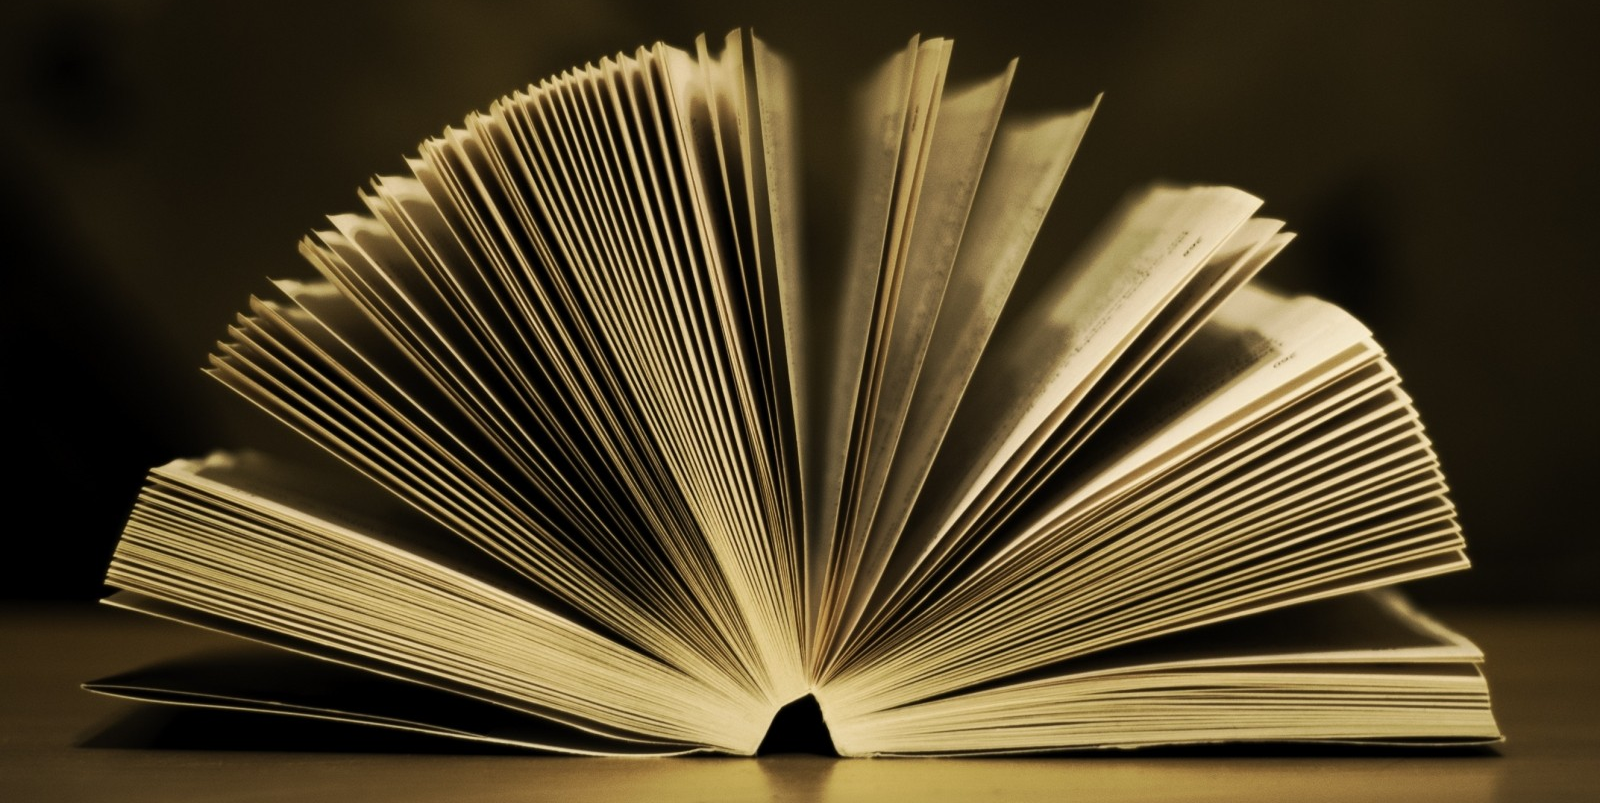
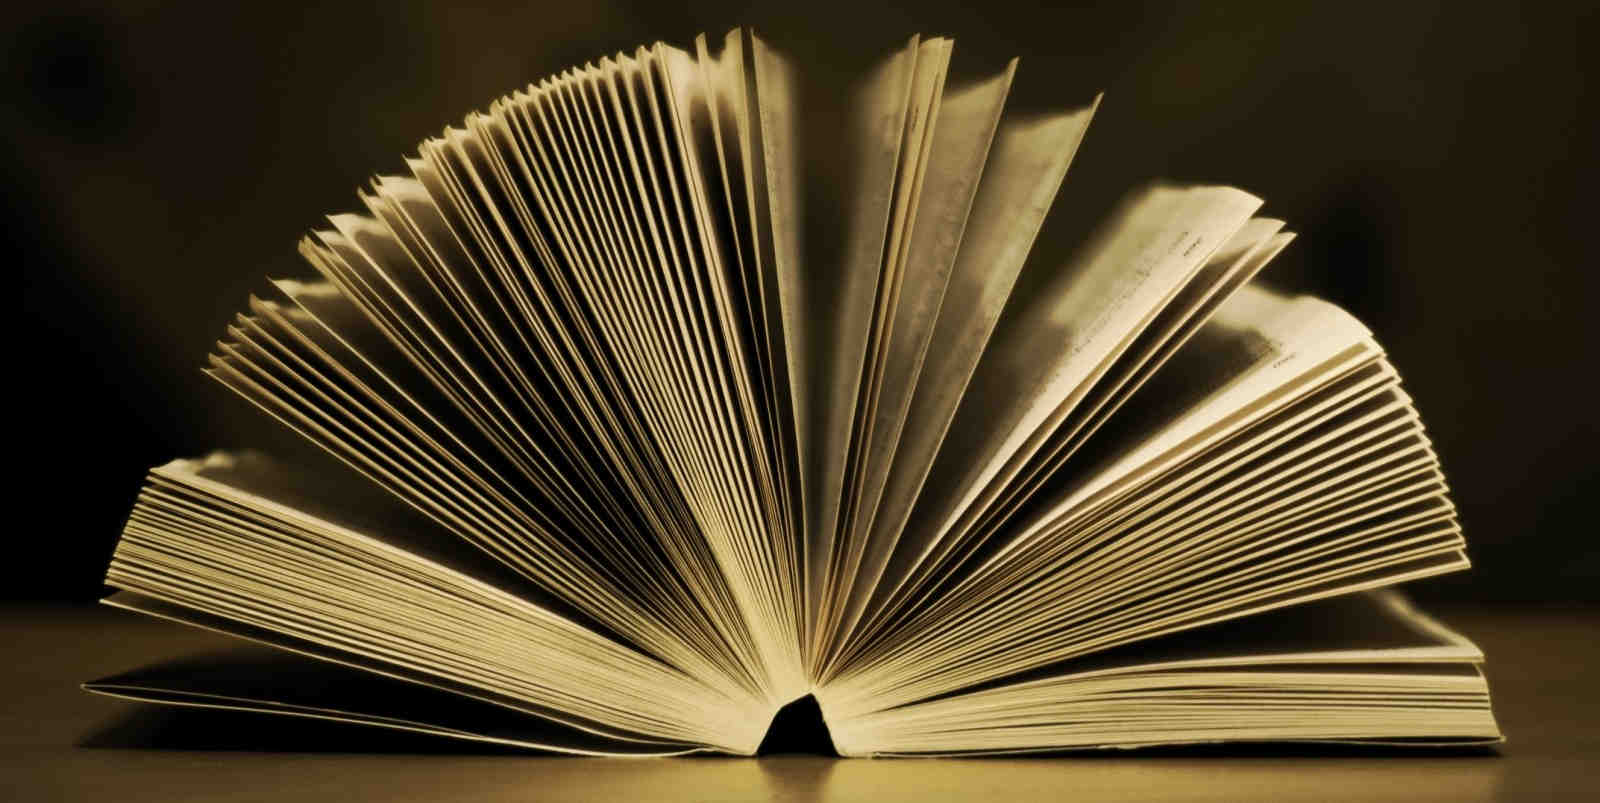
phrase notice tableau questionnaire, css background et images retaillées pour web

diff --git a/public/css/css.css b/public/css/css.css
@@ -90,7 +90,8 @@
      the content's height is greater than the image's height */
   background-attachment: fixed;
 
-  background-size: cover;
+	background-size: cover;
+	background-color: #0D0D0D;
 
 
 

diff --git a/public/css/style.css b/public/css/style.css
@@ -1,7 +1,7 @@
 body {
   height: 100%;
   width: 100%;
-
+  
 }
 
 .btn-cont {
